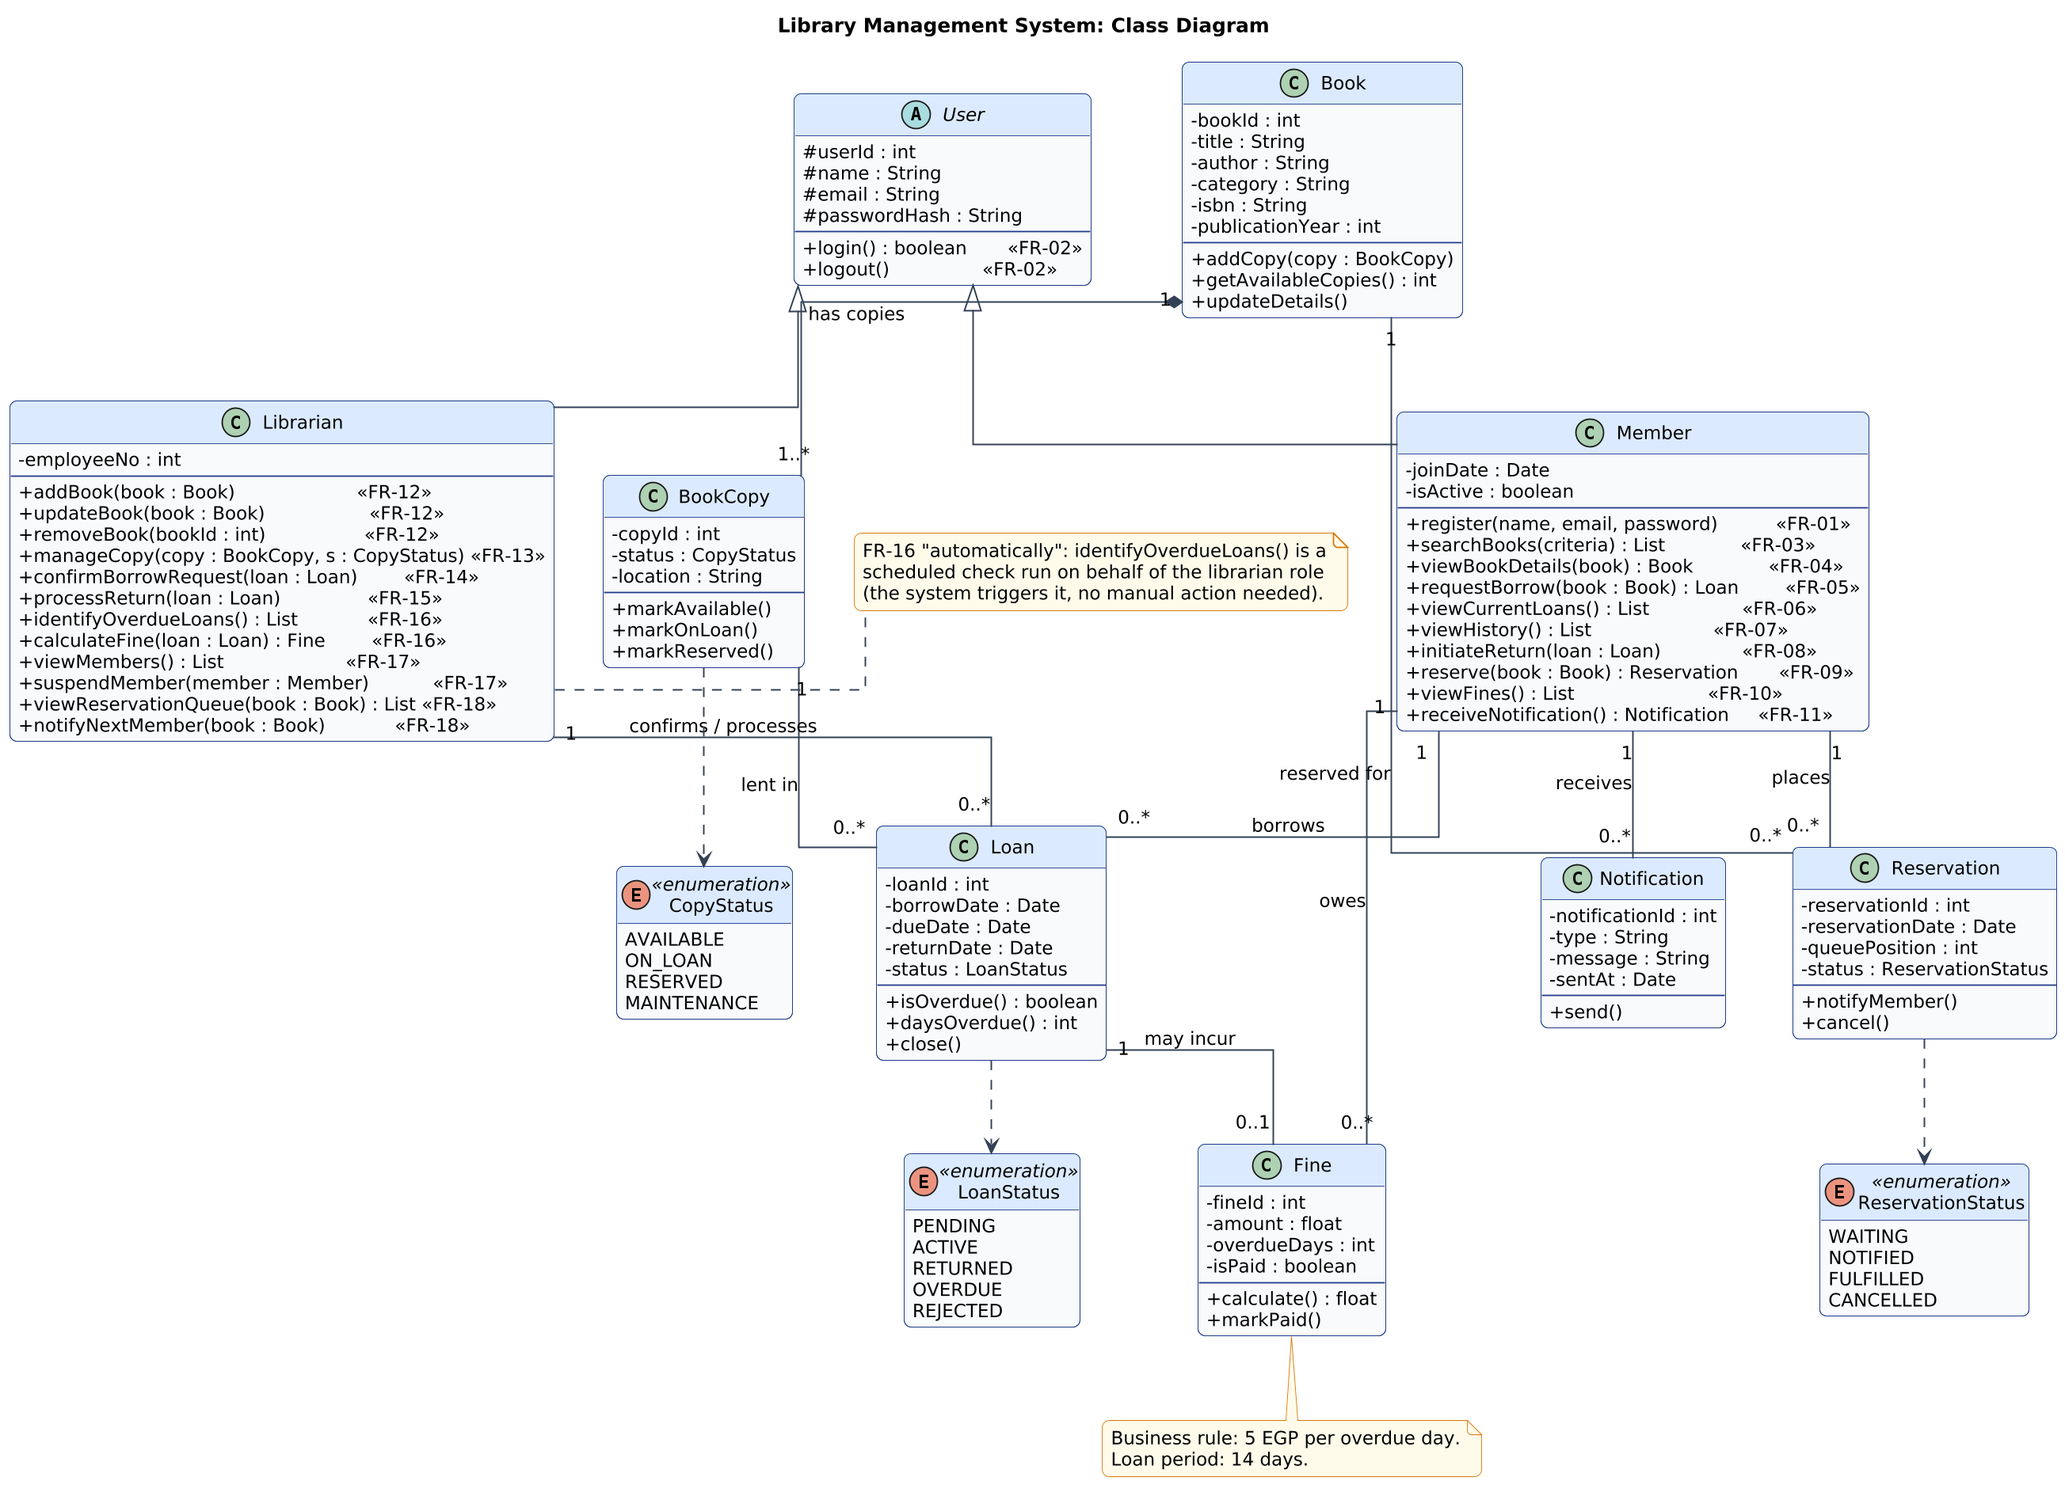
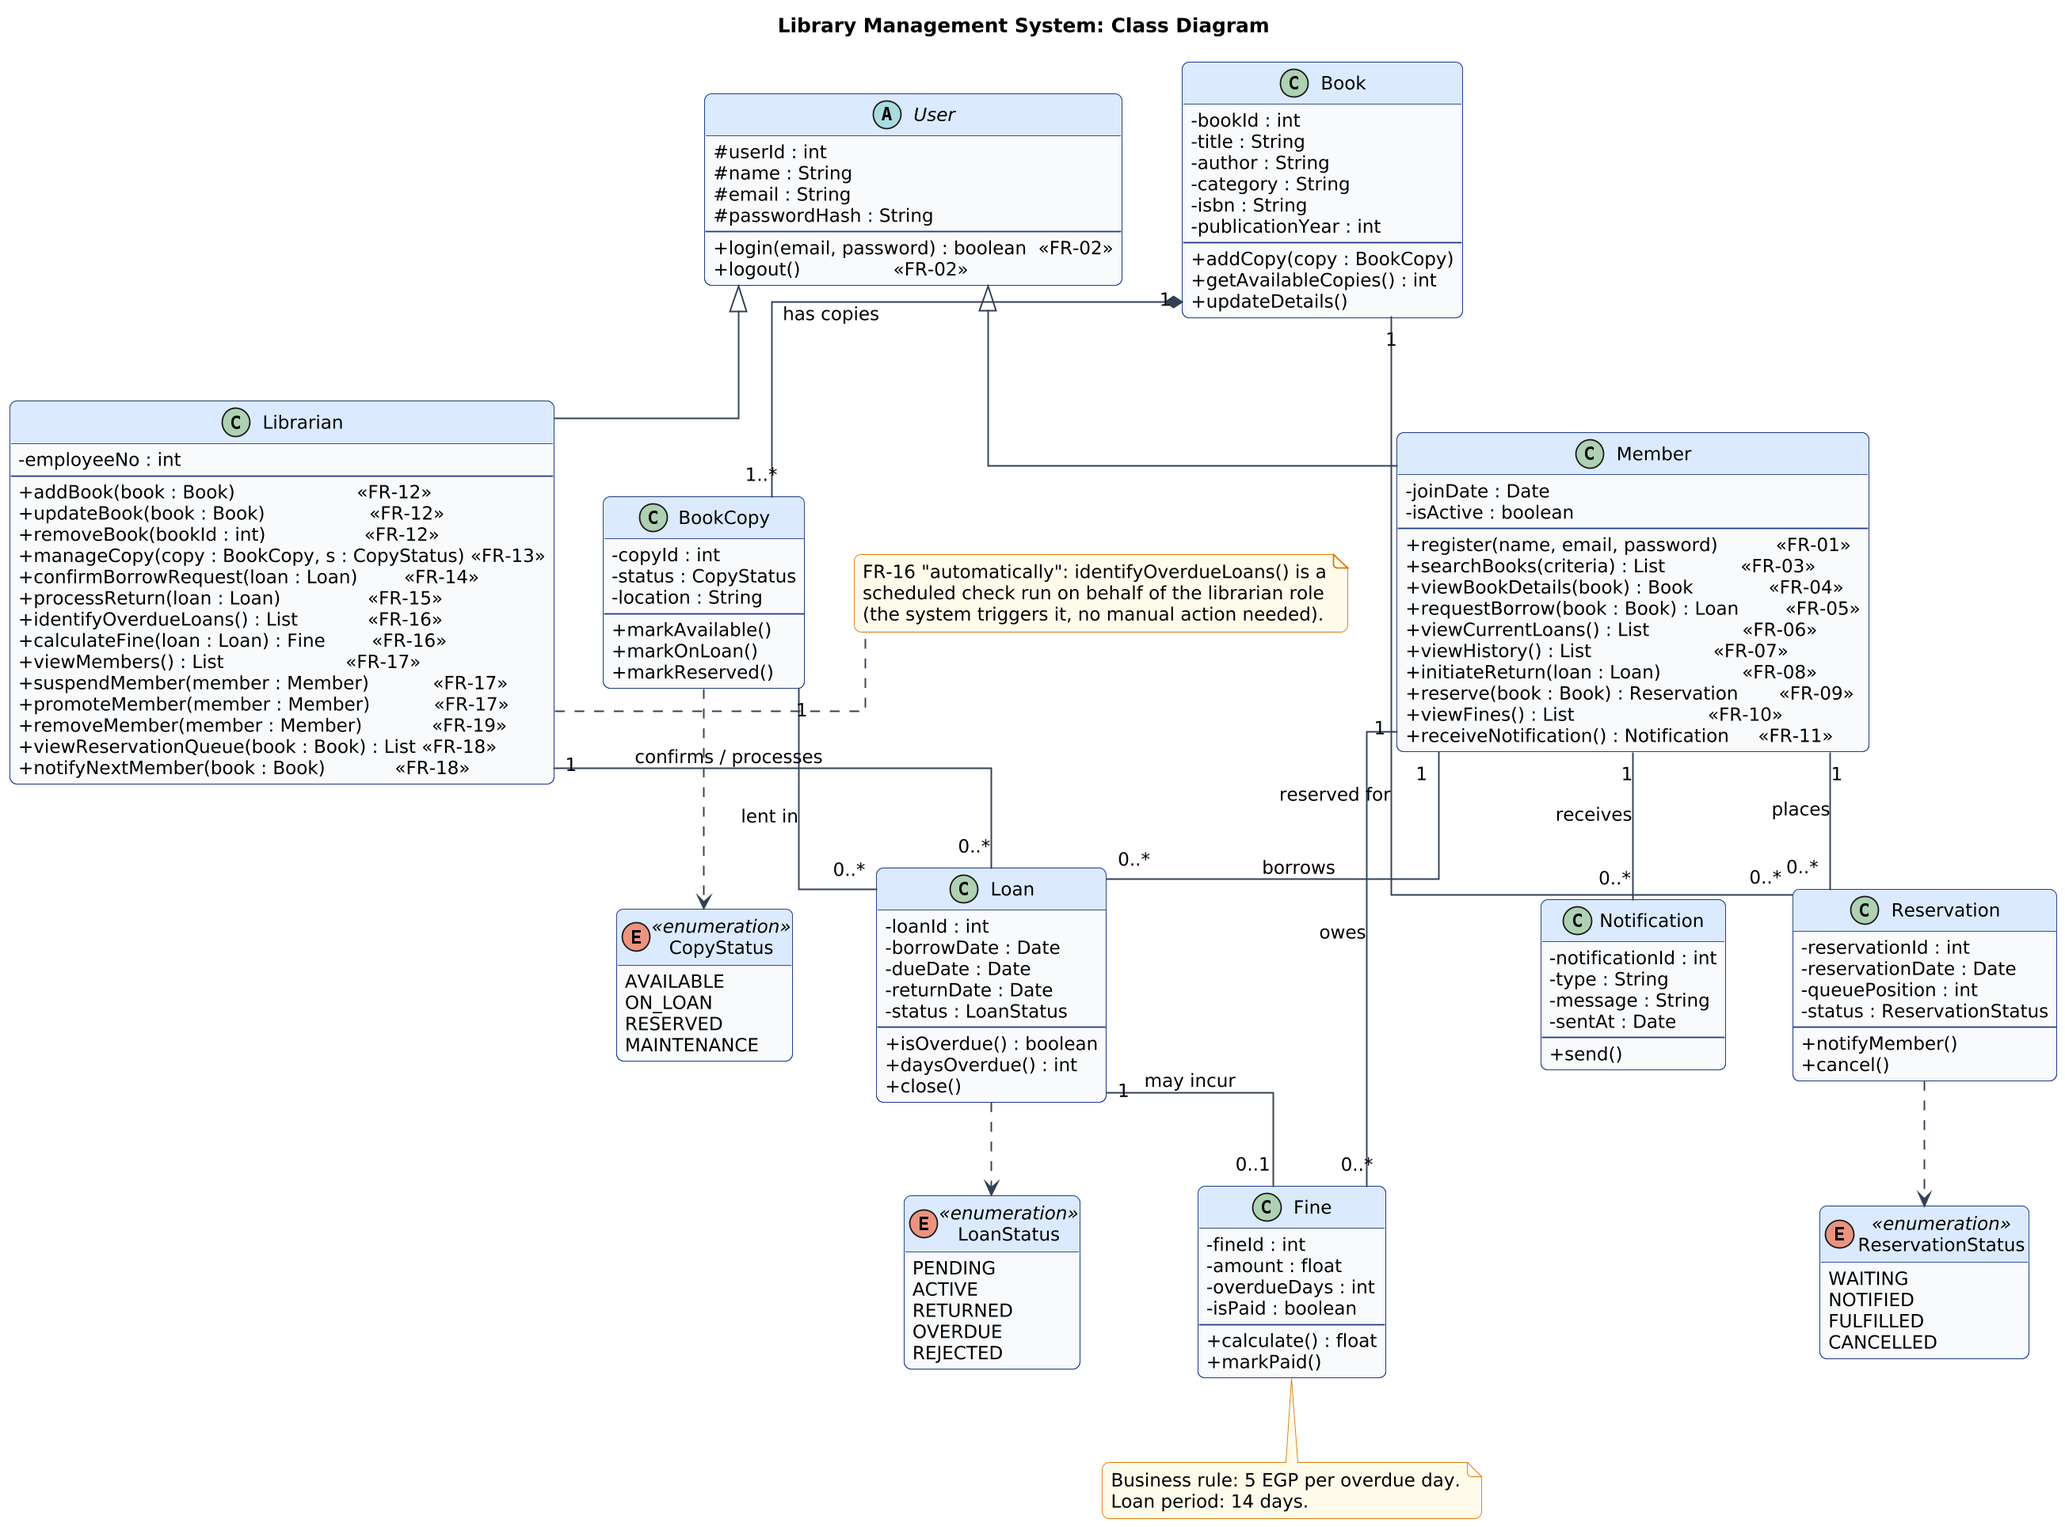
FR-19 remove member: UI, requirements, diagrams; sync FR-02/FR-17 wording, counts

diff --git a/docs/js/app.js b/docs/js/app.js
@@ -16,9 +16,19 @@ function loadState() {
 function saveState() { localStorage.setItem(LS_KEY, JSON.stringify(STATE)); }
 const STATE = Object.assign(
   { addedBooks: [], removedBookIds: [], updatedBooks: {}, addedCopies: {},
-    decisions: {}, suspended: {}, user: null, accounts: [], addedMembers: [], promoted: {} },
+    decisions: {}, suspended: {}, user: null, accounts: [], addedMembers: [], promoted: {}, removedMembers: [] },
   loadState()
 );
+
+/* Delete a member and everything that belongs to them from the in-memory demo data. */
+function dropWhere(arr, fn) { for (let i = arr.length - 1; i >= 0; i--) if (fn(arr[i])) arr.splice(i, 1); }
+function removeMemberData(id) {
+  dropWhere(MEMBERS, m => m.id === id);
+  dropWhere(LOANS, l => l.memberId === id);
+  dropWhere(FINES, f => f.memberId === id);
+  dropWhere(RESERVATIONS, r => r.memberId === id);
+  dropWhere(PENDING_REQUESTS, r => r.memberId === id);
+}
 
 /* Apply persisted actions to the in-memory demo data before any page renders. */
 (function applyState() {
@@ -36,11 +46,12 @@ const STATE = Object.assign(
   });
   STATE.addedBooks.forEach(b => { if (!bookById(b.id)) BOOKS.push(b); });
   STATE.addedMembers.forEach(m => { if (!MEMBERS.some(x => x.id === m.id)) MEMBERS.push(m); });
+  STATE.removedMembers.forEach(removeMemberData);
   MEMBERS.forEach(m => { if (m.id in STATE.suspended) m.suspended = STATE.suspended[m.id]; });
 })();
 
 /* ---------- Accounts and session (credentials checked against ACCOUNTS + registered accounts) ---------- */
-function allAccounts() { return ACCOUNTS.concat(STATE.accounts); }
+function allAccounts() { return ACCOUNTS.concat(STATE.accounts).filter(a => !(a.memberId && STATE.removedMembers.includes(a.memberId))); }
 function accountRole(acc) {
   return (acc.role === "librarian" || (acc.memberId && STATE.promoted[acc.memberId])) ? "librarian" : "member";
 }
@@ -448,7 +459,7 @@ function renderMembersPage() {
        <td>${m.suspended ? '<span class="badge danger">Suspended</span>' : '<span class="badge ok">Active</span>'}${isLib ? ' <span class="badge info">Librarian</span>' : ""}</td>
        <td><button class="btn small secondary" data-suspend="${m.id}">${m.suspended ? "Reactivate" : "Suspend"}</button>
        ${acc && !isLib ? `<button class="btn small" data-promote="${m.id}">Make librarian</button>` : ""}
-       ${isLib ? `<button class="btn small danger" data-demote="${m.id}">Remove librarian role</button>` : ""}</td></tr>`;
+       ${isLib ? `<button class="btn small danger" data-demote="${m.id}">Remove librarian role</button>` : `<button class="btn small danger" data-remove="${m.id}">Remove member</button>`}</td></tr>`;
     }).join("");
     staffEl.innerHTML = allAccounts().filter(x => accountRole(x) === "librarian").map(x =>
       `<tr><td><div class="book-title">${esc(x.name)}</div></td><td>${esc(x.email)}</td>
@@ -459,6 +470,27 @@ function renderMembersPage() {
     const s = e.target.closest("button[data-suspend]");
     const p = e.target.closest("button[data-promote]");
     const d = e.target.closest("button[data-demote]");
+    const r = e.target.closest("button[data-remove]");
+    if (r) {
+      const id = Number(r.dataset.remove);
+      const m = MEMBERS.find(x => x.id === id);
+      const loans = LOANS.filter(l => l.memberId === id && !l.returnDate).length;
+      const fines = FINES.filter(f => f.memberId === id && !f.paid).reduce((t, f) => t + f.amount, 0);
+      const msg = document.getElementById("members-msg");
+      if (loans || fines) {
+        msg.innerHTML = `<div class="notice">${esc(m.name)} cannot be removed: ${[loans ? loans + " active loan(s)" : "", fines ? fines + " EGP unpaid fines" : ""].filter(Boolean).join(" and ")}. Resolve them first.</div>`;
+        return;
+      }
+      if (!confirm("Remove " + m.name + " permanently? Their account, reservations and loan history are deleted.")) return;
+      removeMemberData(id);
+      STATE.removedMembers.push(id);
+      STATE.addedMembers = STATE.addedMembers.filter(x => x.id !== id);
+      delete STATE.promoted[id];
+      saveState();
+      msg.innerHTML = `<div class="notice ok">${esc(m.name)} was removed.</div>`;
+      draw();
+      return;
+    }
     if (s) {
       const m = MEMBERS.find(x => x.id === Number(s.dataset.suspend));
       m.suspended = !m.suspended;
@@ -503,7 +535,7 @@ function renderLoginPage() {
     const msg = document.getElementById("register-msg");
     if (pass.length < 6) { msg.innerHTML = `<div class="notice">Password must be at least 6 characters.</div>`; return; }
     if (allAccounts().some(a => a.email.toLowerCase() === email)) { msg.innerHTML = `<div class="notice">An account with this email already exists.</div>`; return; }
-    const id = 200 + STATE.addedMembers.length;
+    const id = Math.max(199, ...STATE.removedMembers, ...MEMBERS.map(m => m.id)) + 1;
     const rec = { id: id, name: name, email: email, joinDate: TODAY, activeLoans: 0, unpaidFines: 0, suspended: false };
     STATE.addedMembers.push(rec);
     STATE.accounts.push({ email: email, password: pass, name: name, role: "member", memberId: id });

diff --git a/docs/members.html b/docs/members.html
@@ -10,7 +10,7 @@
   <link rel="preconnect" href="https://fonts.googleapis.com">
   <link rel="preconnect" href="https://fonts.gstatic.com" crossorigin>
   <link href="https://fonts.googleapis.com/css2?family=Inter:opsz,wght@14..32,400..700&display=swap" rel="stylesheet">
-  <link rel="stylesheet" href="css/style.css?v=15">
+  <link rel="stylesheet" href="css/style.css?v=16">
 </head>
 <body>
   <a class="skip-link" href="#main">Skip to content</a>
@@ -31,6 +31,7 @@
   <main id="main">
     <h1>Members</h1>
     <p class="subtitle">All library members. Suspend or reactivate an account, or give a member the librarian role.</p>
+    <div id="members-msg"></div>
     <div class="card" style="padding:0; overflow:auto">
       <table>
         <thead><tr><th>Member</th><th>Email</th><th>Active loans</th><th>Unpaid fines</th><th>Status</th><th>Action</th></tr></thead>
@@ -46,9 +47,9 @@
     </div>
   </main>
   <footer class="site-footer">Library Management System - SA1</footer>
-  <script src="js/data.js?v=15"></script>
-  <script src="js/accounts.js?v=15"></script>
-  <script src="js/app.js?v=15"></script>
+  <script src="js/data.js?v=16"></script>
+  <script src="js/accounts.js?v=16"></script>
+  <script src="js/app.js?v=16"></script>
   <script>renderMembersPage();</script>
 </body>
 </html>

diff --git a/docs/index.html b/docs/index.html
@@ -10,7 +10,7 @@
   <link rel="preconnect" href="https://fonts.googleapis.com">
   <link rel="preconnect" href="https://fonts.gstatic.com" crossorigin>
   <link href="https://fonts.googleapis.com/css2?family=Inter:opsz,wght@14..32,400..700&display=swap" rel="stylesheet">
-  <link rel="stylesheet" href="css/style.css?v=15">
+  <link rel="stylesheet" href="css/style.css?v=16">
 </head>
 <body>
   <a class="skip-link" href="#main">Skip to content</a>
@@ -87,9 +87,9 @@
     </ol>
   </main>
   <footer class="site-footer">Library Management System - Information Systems Analysis and Design 1 (SA1)</footer>
-  <script src="js/data.js?v=15"></script>
-  <script src="js/accounts.js?v=15"></script>
-  <script src="js/app.js?v=15"></script>
+  <script src="js/data.js?v=16"></script>
+  <script src="js/accounts.js?v=16"></script>
+  <script src="js/app.js?v=16"></script>
   <script>
     const activeLoans = LOANS.filter(l => !l.returnDate).length;
     const overdue = LOANS.filter(l => !l.returnDate && l.status === "overdue").length;

diff --git a/docs/book.html b/docs/book.html
@@ -10,7 +10,7 @@
   <link rel="preconnect" href="https://fonts.googleapis.com">
   <link rel="preconnect" href="https://fonts.gstatic.com" crossorigin>
   <link href="https://fonts.googleapis.com/css2?family=Inter:opsz,wght@14..32,400..700&display=swap" rel="stylesheet">
-  <link rel="stylesheet" href="css/style.css?v=15">
+  <link rel="stylesheet" href="css/style.css?v=16">
 </head>
 <body>
   <a class="skip-link" href="#main">Skip to content</a>
@@ -30,9 +30,9 @@
   </header>
   <main id="main"></main>
   <footer class="site-footer">Library Management System - SA1</footer>
-  <script src="js/data.js?v=15"></script>
-  <script src="js/accounts.js?v=15"></script>
-  <script src="js/app.js?v=15"></script>
+  <script src="js/data.js?v=16"></script>
+  <script src="js/accounts.js?v=16"></script>
+  <script src="js/app.js?v=16"></script>
   <script>renderBookDetails();</script>
 </body>
 </html>

diff --git a/docs/return.html b/docs/return.html
@@ -10,7 +10,7 @@
   <link rel="preconnect" href="https://fonts.googleapis.com">
   <link rel="preconnect" href="https://fonts.gstatic.com" crossorigin>
   <link href="https://fonts.googleapis.com/css2?family=Inter:opsz,wght@14..32,400..700&display=swap" rel="stylesheet">
-  <link rel="stylesheet" href="css/style.css?v=15">
+  <link rel="stylesheet" href="css/style.css?v=16">
 </head>
 <body>
   <a class="skip-link" href="#main">Skip to content</a>
@@ -48,9 +48,9 @@
     <div id="result"></div>
   </main>
   <footer class="site-footer">Library Management System - SA1</footer>
-  <script src="js/data.js?v=15"></script>
-  <script src="js/accounts.js?v=15"></script>
-  <script src="js/app.js?v=15"></script>
+  <script src="js/data.js?v=16"></script>
+  <script src="js/accounts.js?v=16"></script>
+  <script src="js/app.js?v=16"></script>
   <script>renderReturnPage();</script>
 </body>
 </html>

diff --git a/docs/librarian.html b/docs/librarian.html
@@ -10,7 +10,7 @@
   <link rel="preconnect" href="https://fonts.googleapis.com">
   <link rel="preconnect" href="https://fonts.gstatic.com" crossorigin>
   <link href="https://fonts.googleapis.com/css2?family=Inter:opsz,wght@14..32,400..700&display=swap" rel="stylesheet">
-  <link rel="stylesheet" href="css/style.css?v=15">
+  <link rel="stylesheet" href="css/style.css?v=16">
 </head>
 <body>
   <a class="skip-link" href="#main">Skip to content</a>
@@ -78,9 +78,9 @@
     </div>
   </main>
   <footer class="site-footer">Library Management System - SA1</footer>
-  <script src="js/data.js?v=15"></script>
-  <script src="js/accounts.js?v=15"></script>
-  <script src="js/app.js?v=15"></script>
+  <script src="js/data.js?v=16"></script>
+  <script src="js/accounts.js?v=16"></script>
+  <script src="js/app.js?v=16"></script>
   <script>renderLibrarianDashboard();</script>
 </body>
 </html>

diff --git a/docs/member.html b/docs/member.html
@@ -10,7 +10,7 @@
   <link rel="preconnect" href="https://fonts.googleapis.com">
   <link rel="preconnect" href="https://fonts.gstatic.com" crossorigin>
   <link href="https://fonts.googleapis.com/css2?family=Inter:opsz,wght@14..32,400..700&display=swap" rel="stylesheet">
-  <link rel="stylesheet" href="css/style.css?v=15">
+  <link rel="stylesheet" href="css/style.css?v=16">
 </head>
 <body>
   <a class="skip-link" href="#main">Skip to content</a>
@@ -56,9 +56,9 @@
     </div>
   </main>
   <footer class="site-footer">Library Management System - SA1</footer>
-  <script src="js/data.js?v=15"></script>
-  <script src="js/accounts.js?v=15"></script>
-  <script src="js/app.js?v=15"></script>
+  <script src="js/data.js?v=16"></script>
+  <script src="js/accounts.js?v=16"></script>
+  <script src="js/app.js?v=16"></script>
   <script>renderMemberDashboard();</script>
 </body>
 </html>

diff --git a/docs/login.html b/docs/login.html
@@ -10,7 +10,7 @@
   <link rel="preconnect" href="https://fonts.googleapis.com">
   <link rel="preconnect" href="https://fonts.gstatic.com" crossorigin>
   <link href="https://fonts.googleapis.com/css2?family=Inter:opsz,wght@14..32,400..700&display=swap" rel="stylesheet">
-  <link rel="stylesheet" href="css/style.css?v=15">
+  <link rel="stylesheet" href="css/style.css?v=16">
 </head>
 <body>
   <a class="skip-link" href="#main">Skip to content</a>
@@ -60,9 +60,9 @@
     </div>
   </main>
   <footer class="site-footer">Library Management System - SA1</footer>
-  <script src="js/data.js?v=15"></script>
-  <script src="js/accounts.js?v=15"></script>
-  <script src="js/app.js?v=15"></script>
+  <script src="js/data.js?v=16"></script>
+  <script src="js/accounts.js?v=16"></script>
+  <script src="js/app.js?v=16"></script>
   <script>renderLoginPage();</script>
 </body>
 </html>

diff --git a/docs/catalog.html b/docs/catalog.html
@@ -10,7 +10,7 @@
   <link rel="preconnect" href="https://fonts.googleapis.com">
   <link rel="preconnect" href="https://fonts.gstatic.com" crossorigin>
   <link href="https://fonts.googleapis.com/css2?family=Inter:opsz,wght@14..32,400..700&display=swap" rel="stylesheet">
-  <link rel="stylesheet" href="css/style.css?v=15">
+  <link rel="stylesheet" href="css/style.css?v=16">
 </head>
 <body>
   <a class="skip-link" href="#main">Skip to content</a>
@@ -63,9 +63,9 @@
     </div>
   </main>
   <footer class="site-footer">Library Management System - SA1</footer>
-  <script src="js/data.js?v=15"></script>
-  <script src="js/accounts.js?v=15"></script>
-  <script src="js/app.js?v=15"></script>
+  <script src="js/data.js?v=16"></script>
+  <script src="js/accounts.js?v=16"></script>
+  <script src="js/app.js?v=16"></script>
   <script>renderCatalog();</script>
 </body>
 </html>

diff --git a/docs/history.html b/docs/history.html
@@ -10,7 +10,7 @@
   <link rel="preconnect" href="https://fonts.googleapis.com">
   <link rel="preconnect" href="https://fonts.gstatic.com" crossorigin>
   <link href="https://fonts.googleapis.com/css2?family=Inter:opsz,wght@14..32,400..700&display=swap" rel="stylesheet">
-  <link rel="stylesheet" href="css/style.css?v=15">
+  <link rel="stylesheet" href="css/style.css?v=16">
 </head>
 <body>
   <a class="skip-link" href="#main">Skip to content</a>
@@ -39,9 +39,9 @@
     </div>
   </main>
   <footer class="site-footer">Library Management System - SA1</footer>
-  <script src="js/data.js?v=15"></script>
-  <script src="js/accounts.js?v=15"></script>
-  <script src="js/app.js?v=15"></script>
+  <script src="js/data.js?v=16"></script>
+  <script src="js/accounts.js?v=16"></script>
+  <script src="js/app.js?v=16"></script>
   <script>renderHistory();</script>
 </body>
 </html>

diff --git a/docs/js/accounts.js b/docs/js/accounts.js
@@ -6,5 +6,6 @@ const ACCOUNTS = [
   { email: "nour@library.test", password: "librarian2026", name: "Nour Adel", role: "librarian" },
   { email: "hassan.ashraf@example.com", password: "member101", name: "Hassan Ashraf", role: "member", memberId: 101 },
   { email: "sara.m@example.com", password: "sara1234", name: "Sara Mahmoud", role: "member", memberId: 104 },
-  { email: "omar.k@example.com", password: "omar1234", name: "Omar Khaled", role: "member", memberId: 108 }
+  { email: "omar.k@example.com", password: "omar1234", name: "Omar Khaled", role: "member", memberId: 108 },
+  { email: "mona.s@example.com", password: "mona1234", name: "Mona Samir", role: "member", memberId: 112 }
 ];

diff --git a/docs/js/data.js b/docs/js/data.js
@@ -61,7 +61,8 @@ const RESERVATIONS = [
 const MEMBERS = [
   { id: 101, name: "Hassan Ashraf", email: "hassan.ashraf@example.com", activeLoans: 3, unpaidFines: 30, suspended: false },
   { id: 104, name: "Sara Mahmoud", email: "sara.m@example.com", activeLoans: 1, unpaidFines: 0, suspended: false },
-  { id: 108, name: "Omar Khaled", email: "omar.k@example.com", activeLoans: 2, unpaidFines: 45, suspended: true }
+  { id: 108, name: "Omar Khaled", email: "omar.k@example.com", activeLoans: 2, unpaidFines: 45, suspended: true },
+  { id: 112, name: "Mona Samir", email: "mona.s@example.com", activeLoans: 0, unpaidFines: 0, suspended: false }
 ];
 
 const FINE_PER_DAY = 5;
